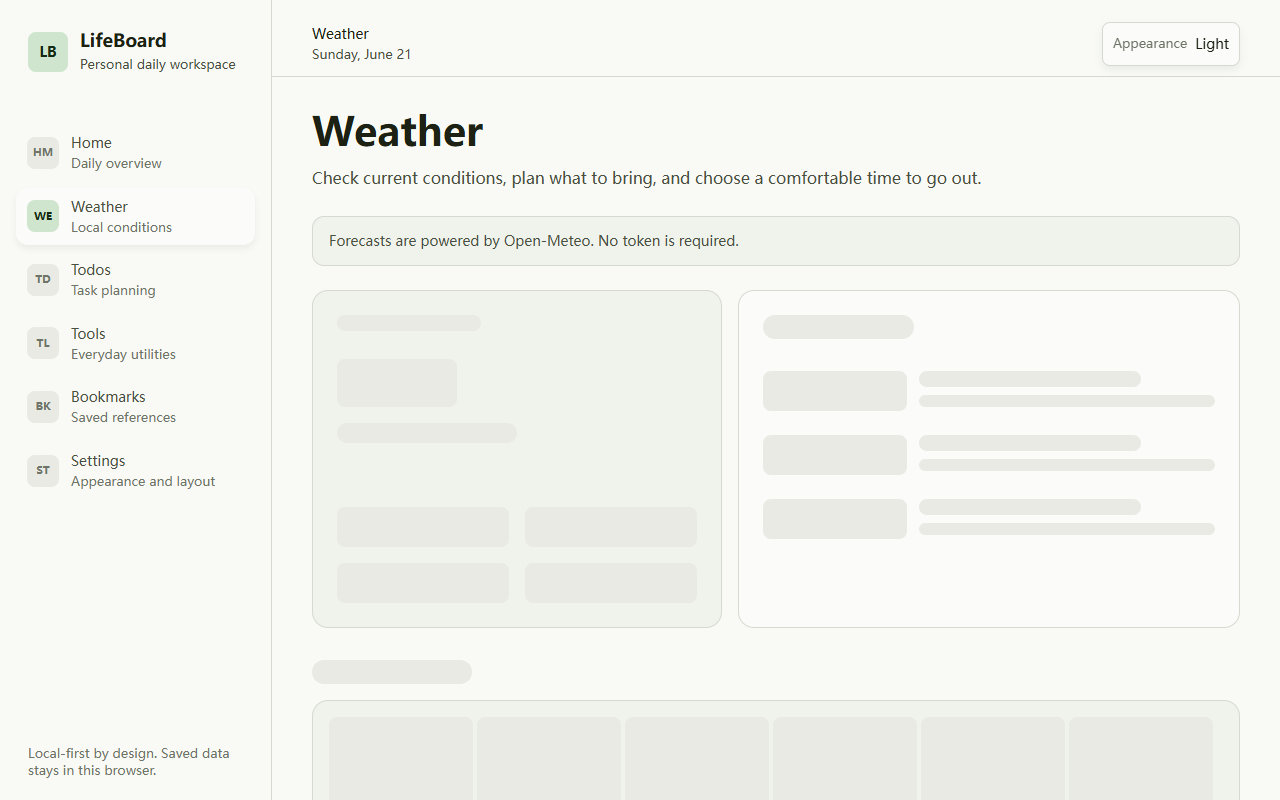
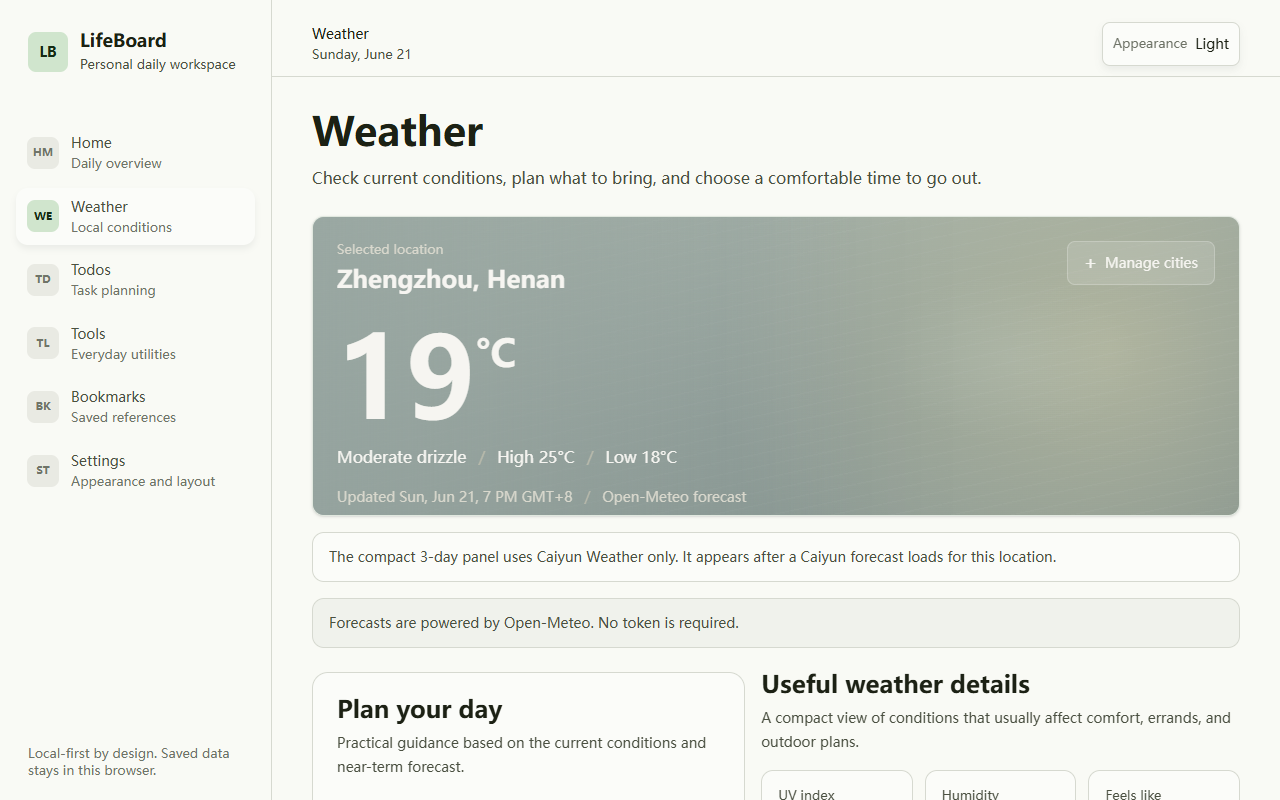
feat: add caiyun weather proxy

diff --git a/src/modules/weather/components/WeatherHero.vue b/src/modules/weather/components/WeatherHero.vue
@@ -171,13 +171,21 @@ watch(announcementSerial, () => {
 }
 
 .weather-hero__viewport {
-  position: absolute;
-  inset: 0;
+  position: relative;
+  min-height: inherit;
   overflow: hidden;
 }
 
 .weather-hero__layer--incoming {
+  position: relative;
+  z-index: 2;
   opacity: 0;
+}
+
+.weather-hero__viewport > .weather-hero__layer--outgoing {
+  position: absolute;
+  inset: 0;
+  z-index: 3;
 }
 
 .weather-hero[data-phase='crossfading'] .weather-hero__layer--outgoing {

diff --git a/src/modules/weather/components/WeatherSnapshotLayer.vue b/src/modules/weather/components/WeatherSnapshotLayer.vue
@@ -256,8 +256,8 @@ const effectiveLighting = computed(
     transparent
   );
 
-  position: absolute;
-  inset: 0;
+  position: relative;
+  min-height: inherit;
   overflow: hidden;
   pointer-events: none;
 }